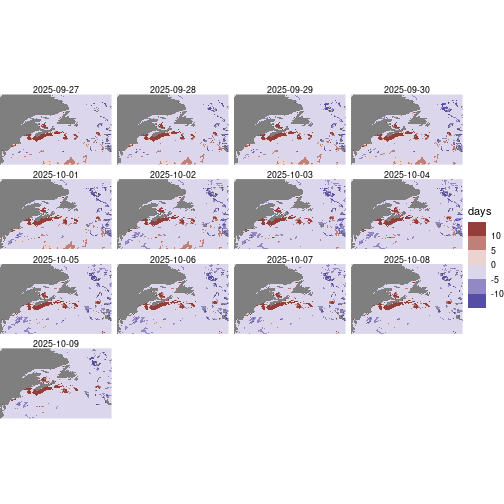
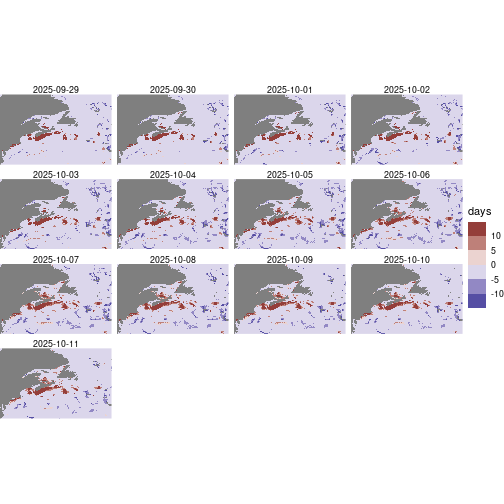
autocommit 2025-10-04 06:00:17

diff --git a/README.md b/README.md
@@ -7,10 +7,7 @@ output: github_document
 
 [Hobday et al (2016)](https://www.sciencedirect.com/science/article/abs/pii/S0079661116000057) proposed a framework for identify marine thermal waves (mtw).  Although the authors focused on marine heat waves, the framework applies to cold waves equally well. [Hobday et al (2018)](https://tos.org/oceanography/article/categorizing-and-naming-marine-heatwaves) followed up with an additional framework for categorizing the severity of heat waves.  [Huang et al (2024)](https://agupubs.onlinelibrary.wiley.com/doi/10.1029/2024GL108369) deployed a similar framework for study of recent conditions.
 
-
-```
-## Error in `st_dimensions<-.stars`(`*tmp*`, value = stars::st_dimensions(p_hi)): length(x) && all(dim(x[[1]]) == dim(value)) is not TRUE
-```
+![plot of chunk plot](figure/plot-1.png)
 
 Here we replicate Hobday's first framework using  [Copernicus Global Ocean Physics Reanalysis data](https://data.marine.copernicus.eu/product/GLOBAL_MULTIYEAR_PHY_001_030/description) and [Copernicus Global Ocean Physics Analysis and Forecast data](https://data.marine.copernicus.eu/product/GLOBAL_ANALYSISFORECAST_PHY_001_024/description) to develop a daily forecast (and hindcast) map for the region covering Cape Hatteras in North Carolina to Newfoundland including the Flemish Cap. 
 
